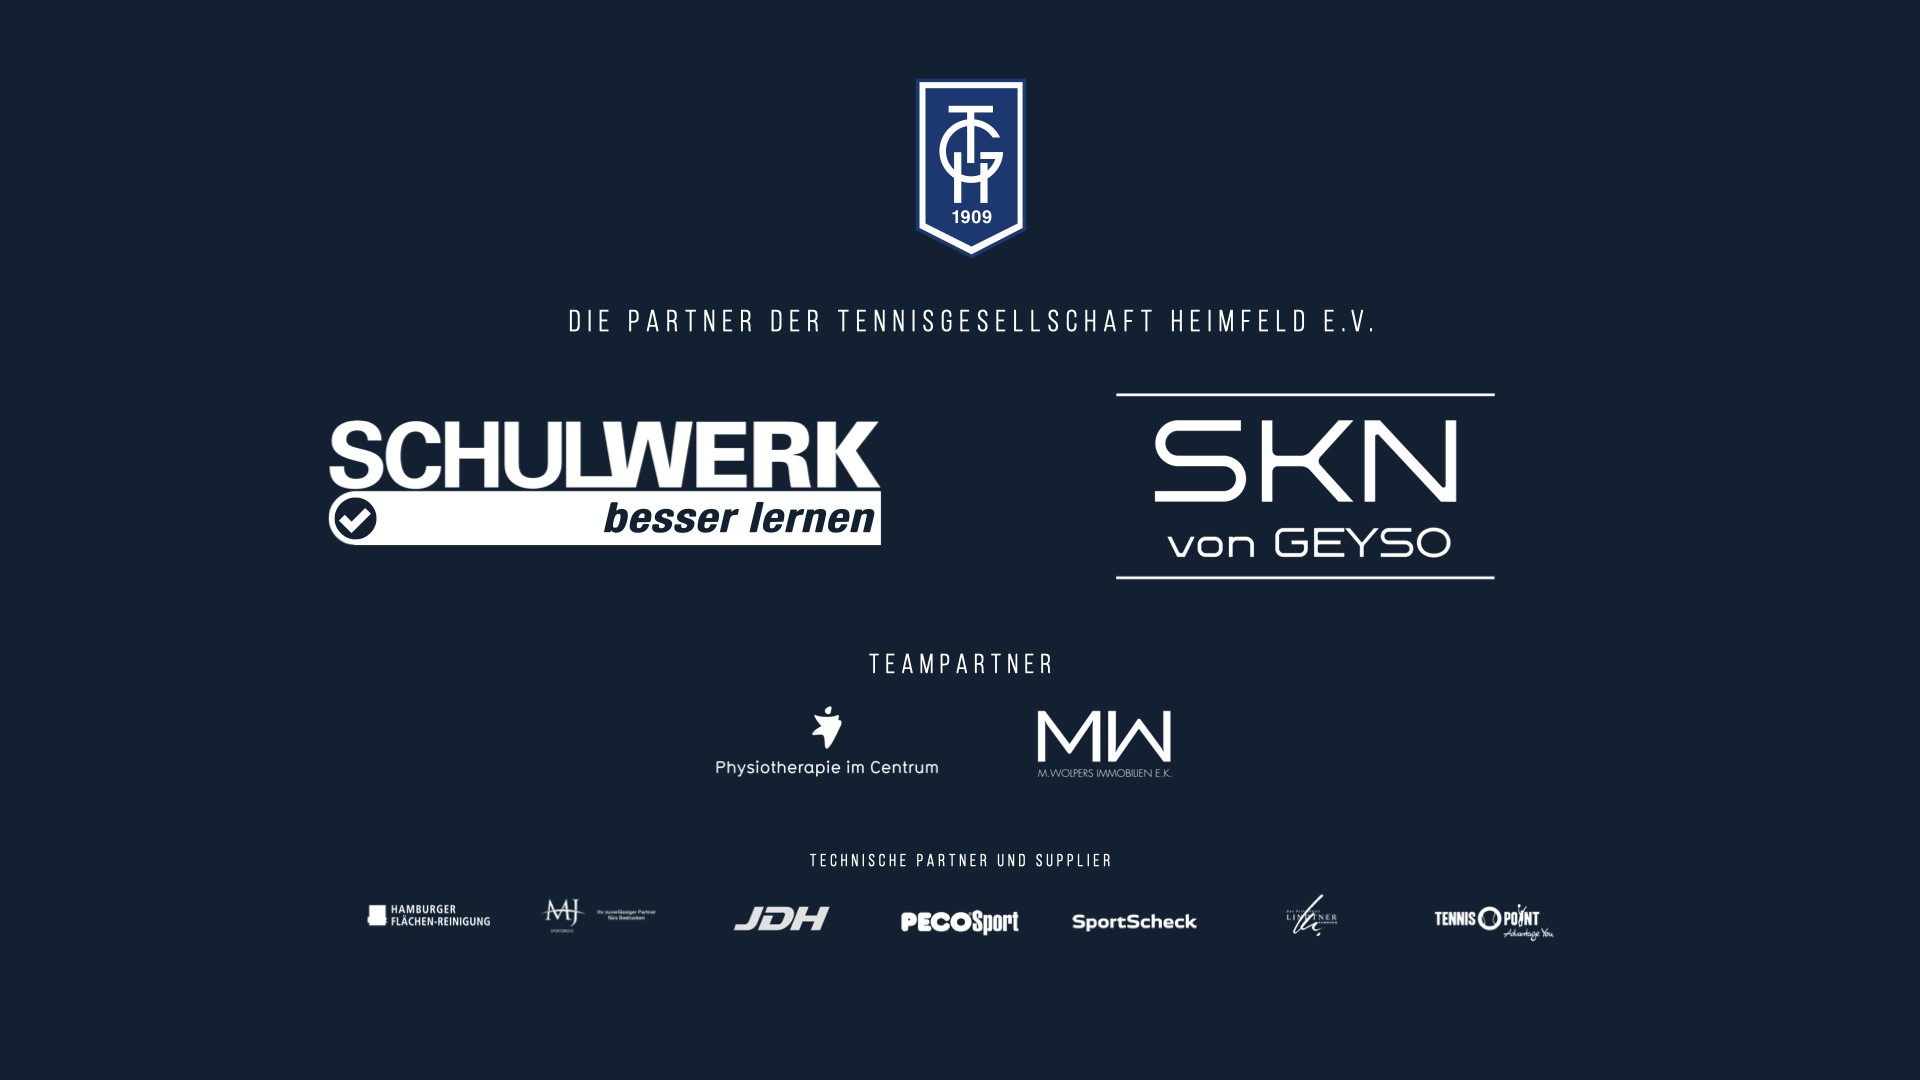
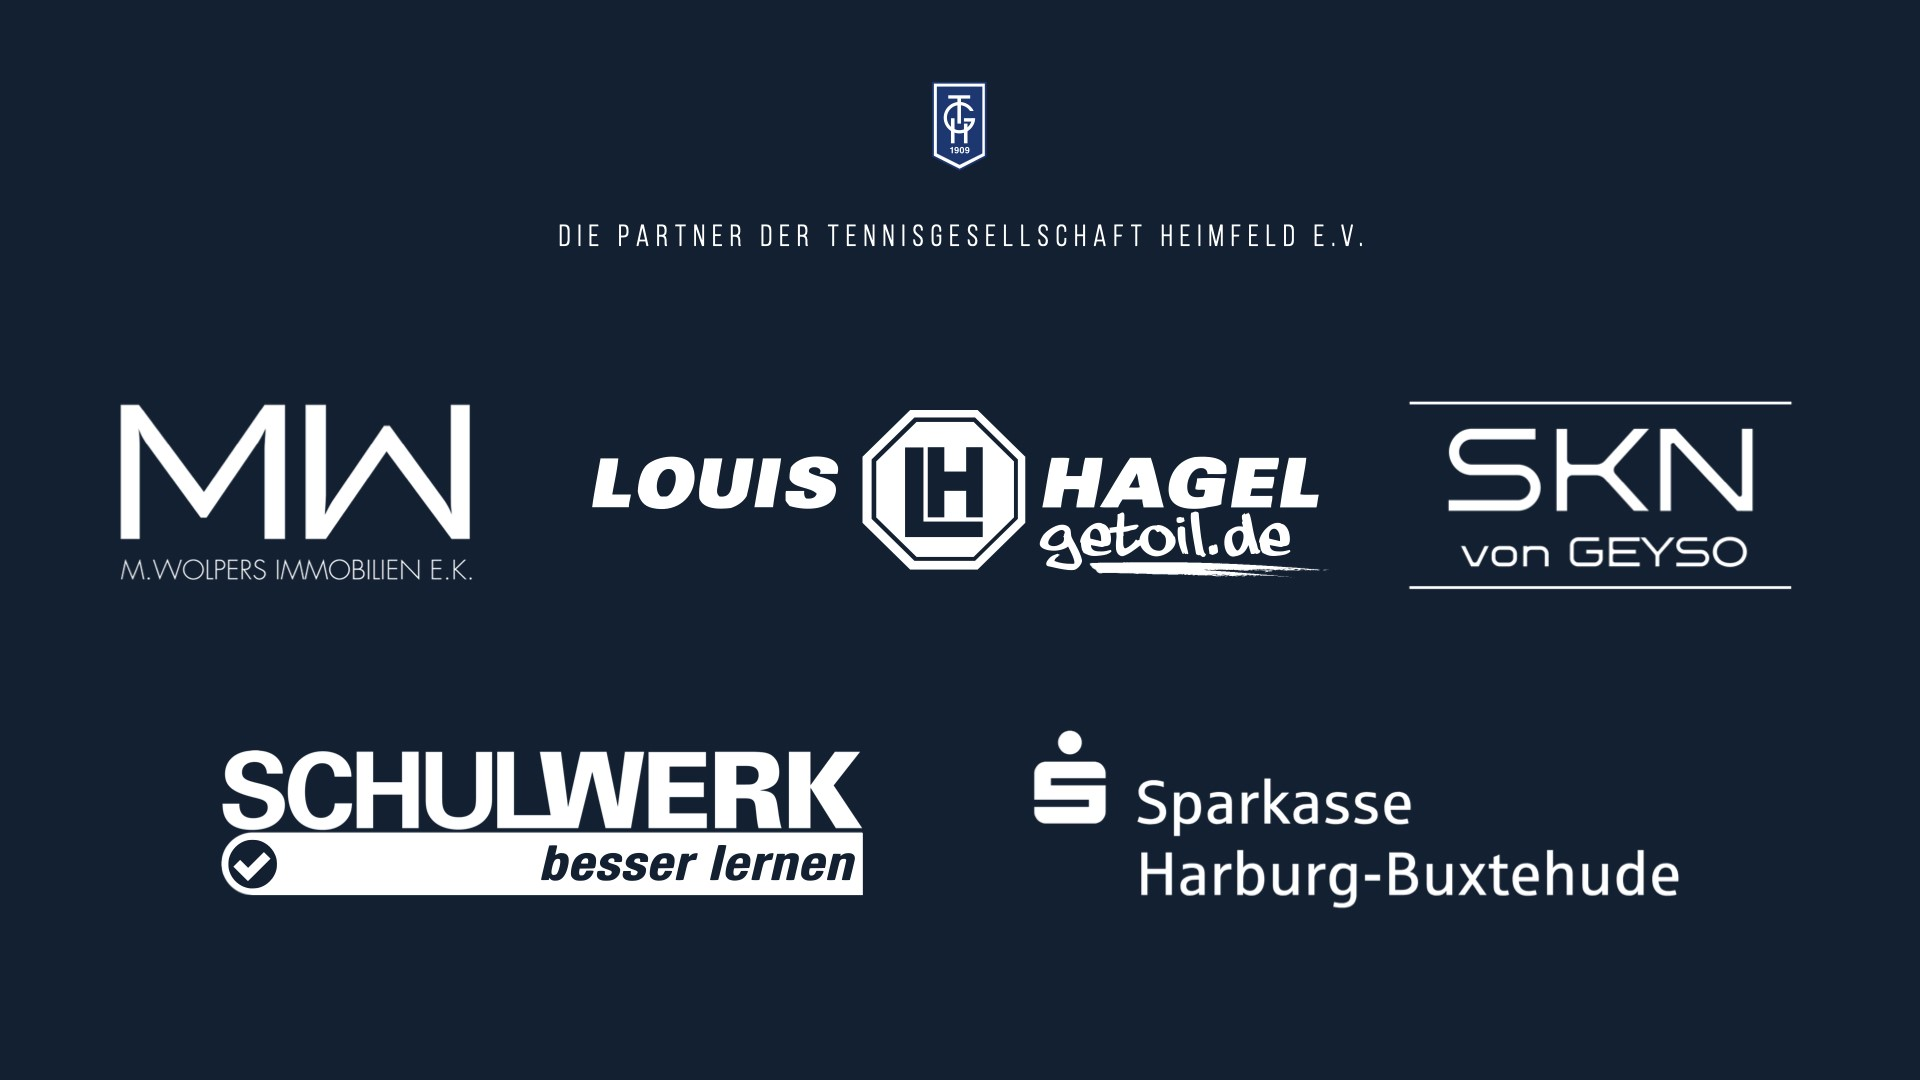
Updated Partner&Teampartnerübersicht

diff --git a/index.html b/index.html
@@ -94,6 +94,9 @@
     <div class="slide fade">
       <img src="img/5.jpg">
     </div>
+    <div class="slide fade">
+      <img src="img/6.jpg">
+    </div>
     <div class="slider-dots">
       <span class="dot active"></span>
     </div>
